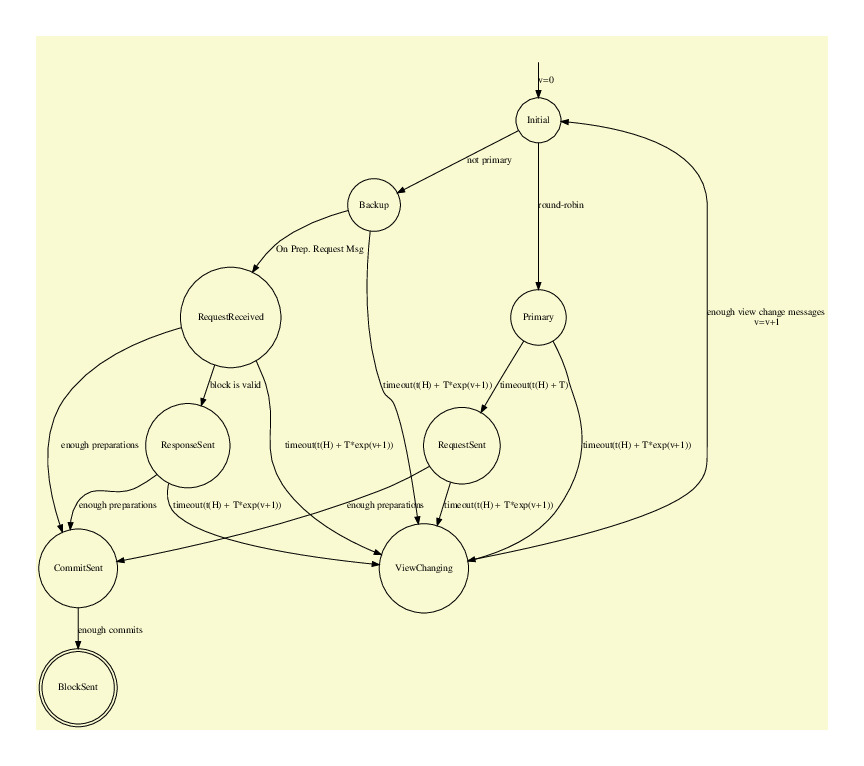
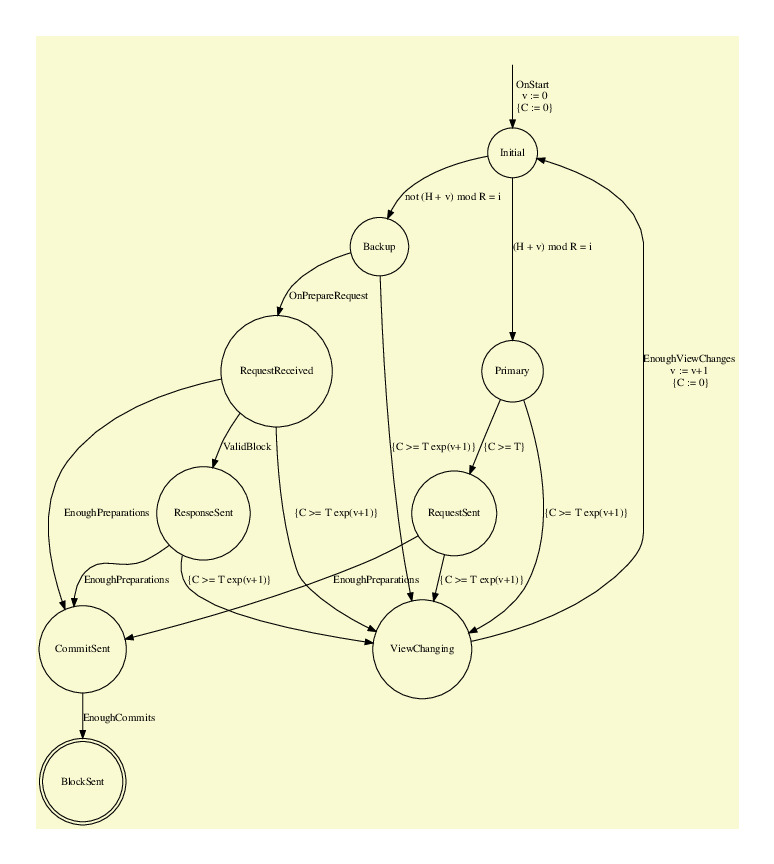
better diagram

diff --git a/sections/08_dBFT.md b/sections/08_dBFT.md
@@ -116,22 +116,22 @@ digraph dBFT {
 	node [shape = circle]; Initial;
 	node [shape = doublecircle]; BlockSent;
 	node [shape = circle];
-  Empty -> Initial [label = "v=0"];
-	Initial -> Primary [ label = "round-robin" ];
-	Initial -> Backup [ label = "not primary" ];
-	Primary -> RequestSent [ label = "timeout(t(H) + T)" ];
-	Backup -> RequestReceived [ label = "On Prep. Request Msg" ];
-	RequestReceived -> ResponseSent [ label = "block is valid" ];
-	RequestReceived -> ViewChanging [ label = "timeout(t(H) + T*exp(v+1))" ];
-	Primary -> ViewChanging [ label = "timeout(t(H) + T*exp(v+1))" ];
-	Backup -> ViewChanging [ label = "timeout(t(H) + T*exp(v+1))" ];
-	ResponseSent -> ViewChanging [ label = "timeout(t(H) + T*exp(v+1))" ];
-	RequestSent -> ViewChanging [ label = "timeout(t(H) + T*exp(v+1))" ];
-	ResponseSent -> CommitSent [ label = "enough preparations" ];
-	RequestSent -> CommitSent [ label = "enough preparations" ];
-	RequestReceived -> CommitSent [ label = "enough preparations" ];
-	CommitSent -> BlockSent [ label = "enough commits" ];
-	ViewChanging -> Initial [ label = "enough view change messages\n v=v+1" ];
+  Empty -> Initial [label = "OnStart\n v := 0\n {C := 0}"];
+	Initial -> Primary [ label = "(H + v) mod R = i" ];
+	Initial -> Backup [ label = "not (H + v) mod R = i" ];
+	Primary -> RequestSent [ label = "{C >= T}" ];
+	Backup -> RequestReceived [ label = "OnPrepareRequest" ];
+	RequestReceived -> ResponseSent [ label = "ValidBlock" ];
+	RequestReceived -> ViewChanging [ label = "{C >= T exp(v+1)}" ];
+	Primary -> ViewChanging [ label = "{C >= T exp(v+1)}" ];
+	Backup -> ViewChanging [ label = "{C >= T exp(v+1)}" ];
+	ResponseSent -> ViewChanging [ label = "{C >= T exp(v+1)}" ];
+	RequestSent -> ViewChanging [ label = "{C >= T exp(v+1)}" ];
+	ResponseSent -> CommitSent [ label = "EnoughPreparations" ];
+	RequestSent -> CommitSent [ label = "EnoughPreparations" ];
+	RequestReceived -> CommitSent [ label = "EnoughPreparations" ];
+	CommitSent -> BlockSent [ label = "EnoughCommits" ];
+	ViewChanging -> Initial [ label = "EnoughViewChanges\n v := v+1 \n {C := 0}" ];
 }
 ~~~~~~~~~~~~
 
